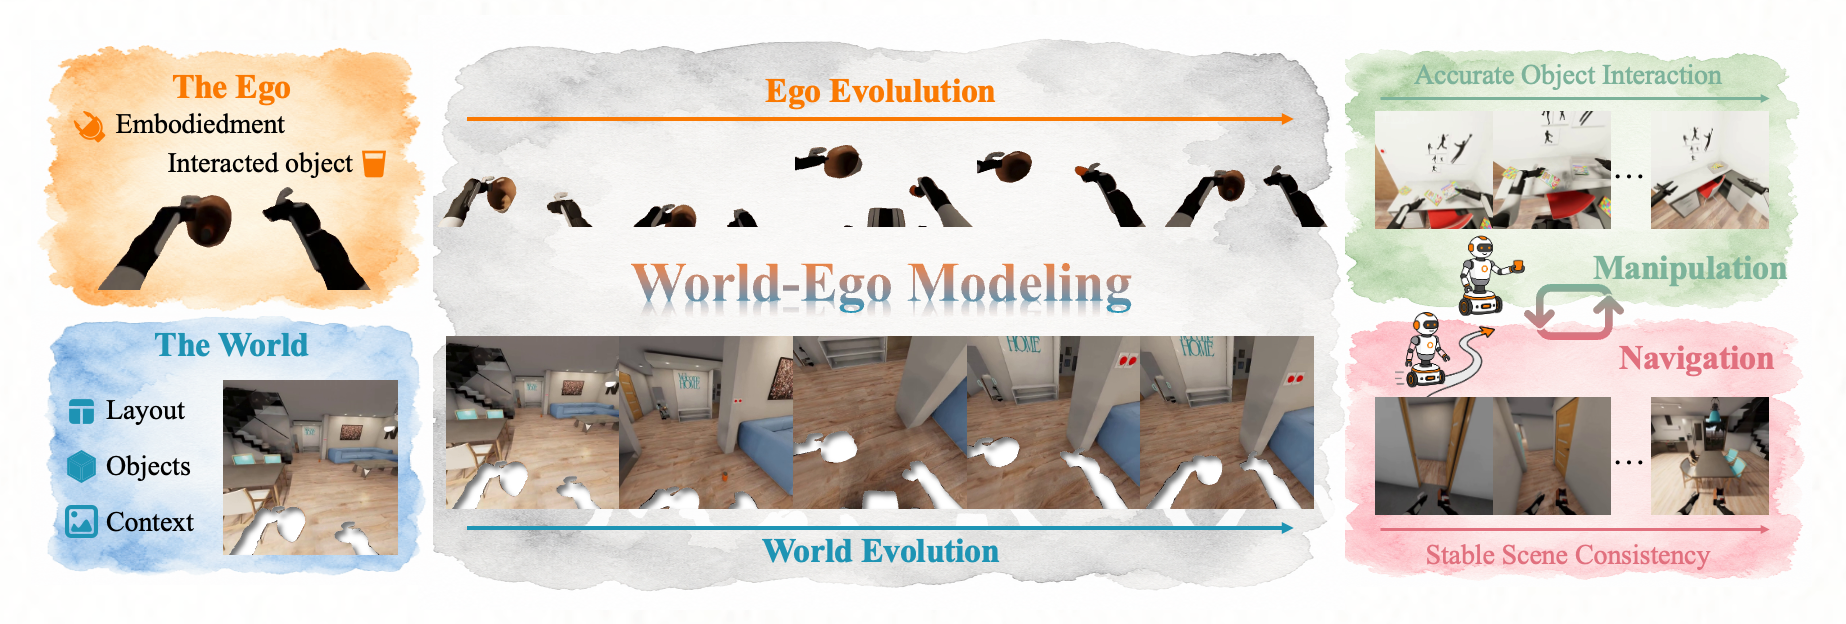
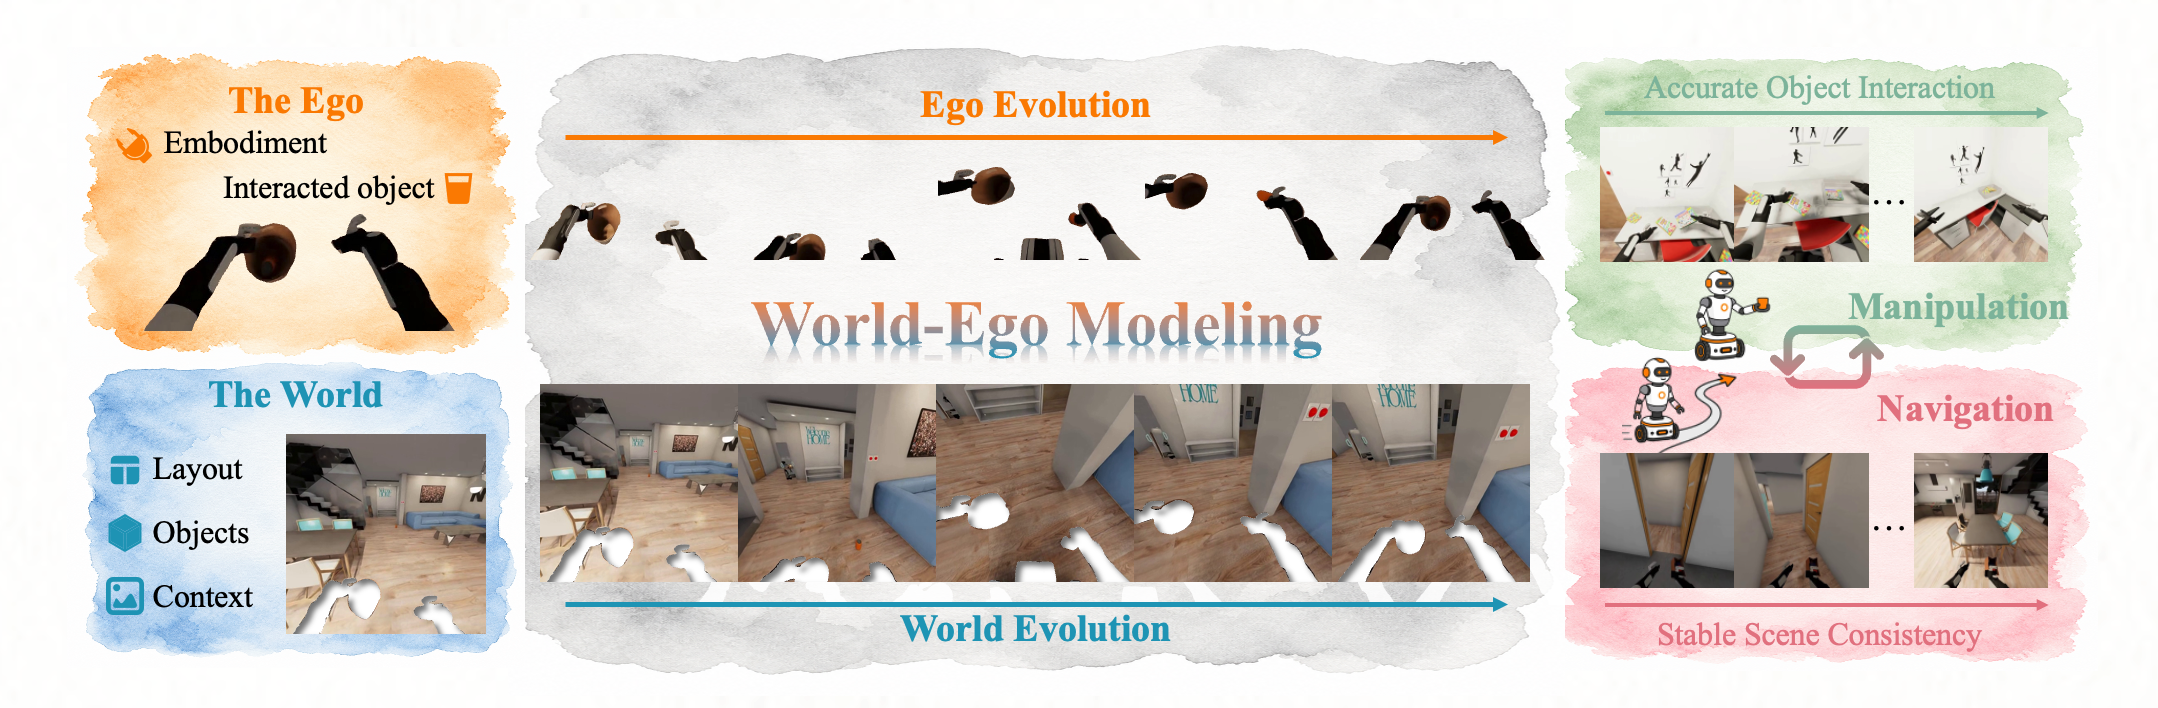
fv8

diff --git a/README.md b/README.md
@@ -63,11 +63,21 @@ The dataset repository contains two splits:
 
 ```
 <HTEWORLD_ROOT>/
-├── train/   # WEM training annotations
-└── eval/    # benchmark inputs with full ground-truth videos
+├── train/
+│   ├── task-0000.tar.gz
+│   ├── task-0001.tar.gz
+│   ├── ...
+│   └── task-0010.tar.gz
+└── eval/
+    ├── task_001/
+    │   ├── first_frame.jpg
+    │   ├── video.mp4
+    │   ├── prompts.txt
+    │   └── prompt_nav_manip.txt
+    └── ...
 ```
 
-The `train/` split provides the annotations used by WEM, but it does not include the raw BEHAVIOR-1K videos. Download the corresponding BEHAVIOR-1K videos separately, then preprocess them into the training layout:
+The `train/` split contains WEM training annotations only. It does not include raw BEHAVIOR-1K training videos. Download the corresponding BEHAVIOR-1K videos separately, then preprocess them into the WEM training layout:
 
 ```bash
 python tools/prepare_b1k.py \
@@ -76,7 +86,19 @@ python tools/prepare_b1k.py \
     --task_name all
 ```
 
-After preprocessing, copy the annotations from `<HTEWORLD_ROOT>/train` into the processed directory. Each training clip should contain its video, caption, and mask.
+Extract the released annotation archives and merge them into the processed video directory:
+
+```bash
+mkdir -p <ANNOTATION_ROOT>
+
+for archive in <HTEWORLD_ROOT>/train/task-*.tar.gz; do
+    tar -xzf "$archive" -C <ANNOTATION_ROOT>
+done
+
+rsync -a <ANNOTATION_ROOT>/ <DATA_ROOT>/train/
+```
+
+The released annotations cover `task-0000` to `task-0008` and `task-0010`. The first five episodes of each task are excluded from training, and empty clips without complete annotations are omitted.
 
 Expected training layout:
 
@@ -93,6 +115,8 @@ Expected training layout:
 │   └── ...
 └── ...
 ```
+
+The `eval/` split is already in the benchmark format and does not require preprocessing.
 
 Pre-compute the cached tensors used during training:
 
